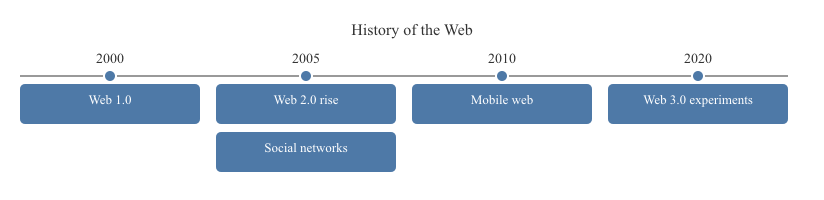
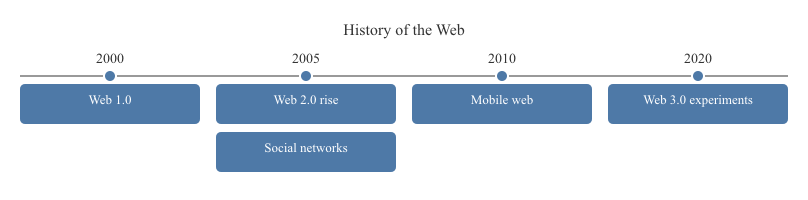
timeline: drop trailing column-gap from viewW; remove rotted comment
PR review (gemini-code-assist):

- viewW for LR included one extra lrColGap of trailing whitespace,
  producing asymmetric horizontal padding (left = pad, right = pad +
  lrColGap). Subtract the unused gap so the canvas right-edge is the
  last column's right-edge plus pad. Snapshots regenerated.
- The lrColW block comment claimed LR columns were "slightly wider
  than TD's eventBoxW" but both constants are 180.0, so the
  justification rotted. Drop it.

diff --git a/pkg/renderer/timeline/renderer.go b/pkg/renderer/timeline/renderer.go
@@ -179,9 +179,6 @@ func renderEvent(ev diagram.TimelineEvent, axis, y float64, color string, fontSi
 }
 
 const (
-	// LR layout metrics. Period columns are slightly wider than
-	// TD's eventBoxW because the LR header (time label) sits
-	// above the column instead of beside the axis dot.
 	lrColW           = 180.0
 	lrColGap         = 16.0
 	lrSectionBandH   = 28.0
@@ -270,7 +267,9 @@ func renderLR(d *diagram.TimelineDiagram, fontSize float64, th Theme) ([]byte, e
 	axisY := timeRowY + lrTimeRowH
 	eventsY := axisY + lrEventGap
 
-	viewW := pad + float64(len(cols))*(lrColW+lrColGap) + pad
+	// Right edge is the last column's right edge plus pad — no trailing
+	// inter-column gap on the outside.
+	viewW := pad + float64(len(cols))*(lrColW+lrColGap) - lrColGap + pad
 	viewH := eventsY + eventsRowH + pad
 
 	colCenterX := func(i int) float64 {
